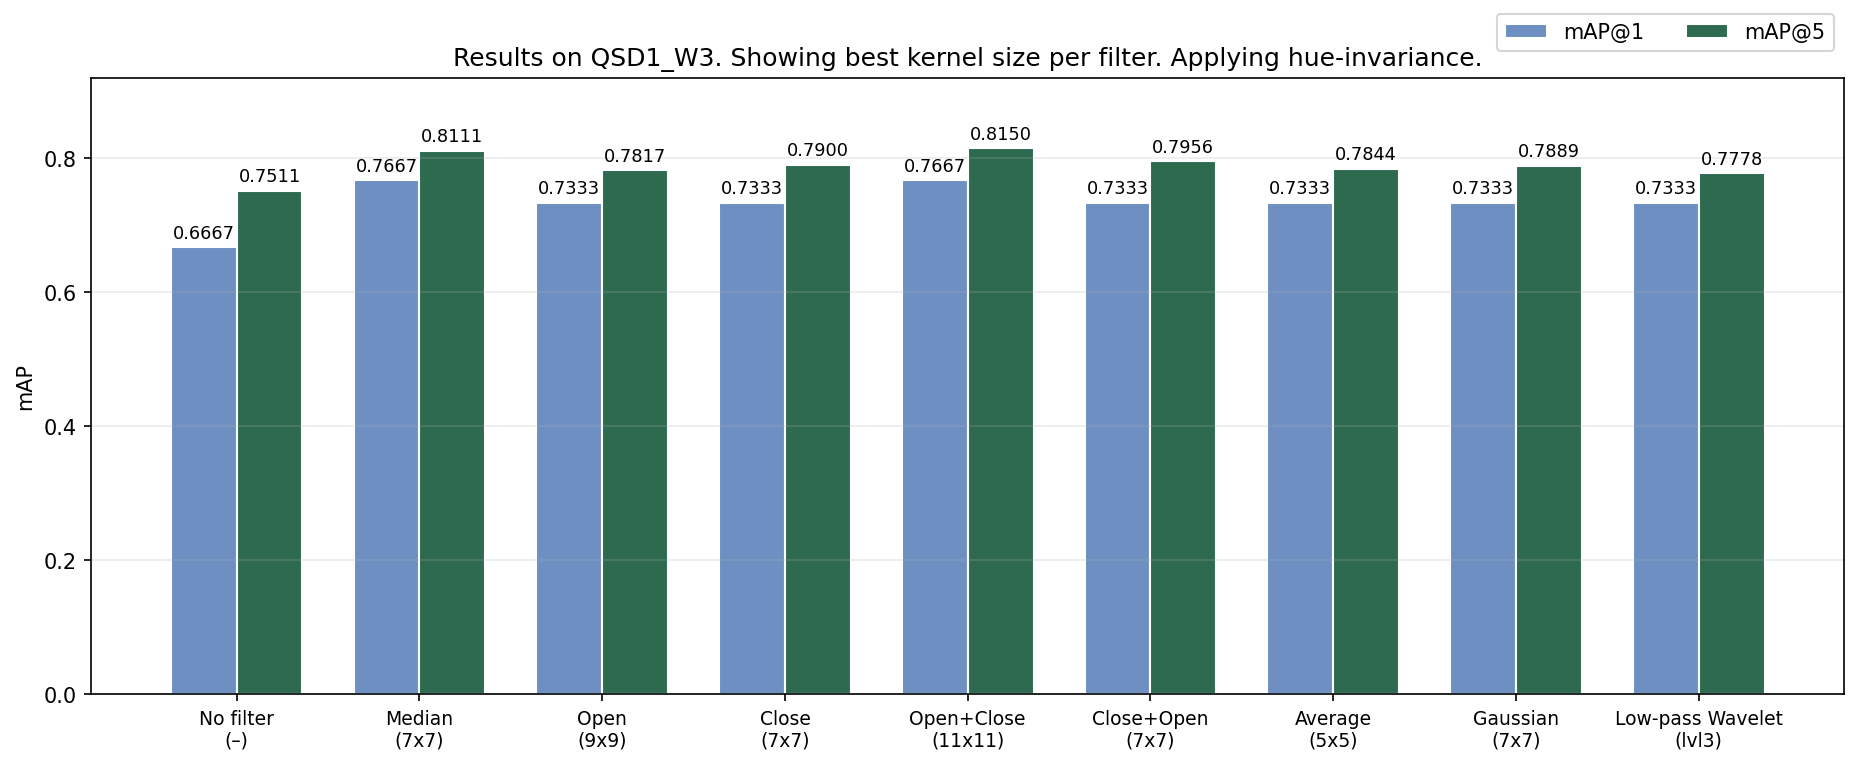
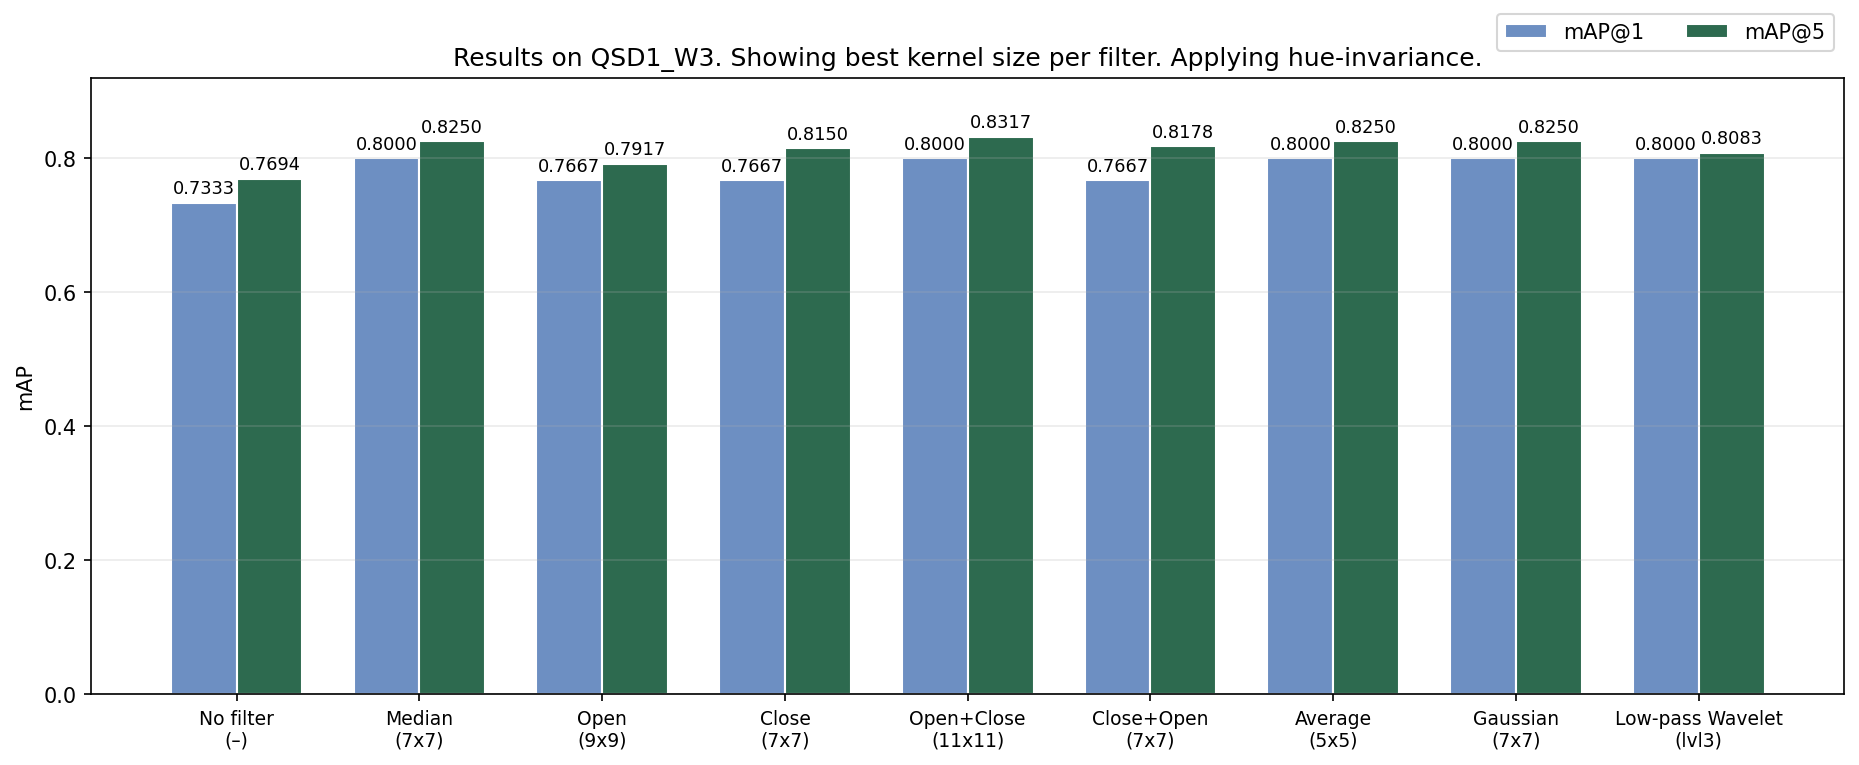
W3: keep only the 8 Task 1 filters in methods_w3
Remove bilateral, dilate and erode from the implementation, --pre-filter choices and sweep grid. MORPH_OPERATIONS is now open/close only. Tests updated with an explicit IMAGE_FILTERS allowlist assertion.

diff --git a/src/methods_w3.py b/src/methods_w3.py
@@ -16,11 +16,10 @@ Both use the W2 configuration: CIE-Lab, 32 bins per channel, 5x5 = 25
 spatial cells, L1-normalized histograms and the L1 distance.
 
 Besides the median filter, the module exposes linear Average and Gaussian
-filters, an edge-preserving bilateral filter, per-channel morphological
-dilation, erosion, opening and closing, chained opening+closing in both
-orders and a low-pass wavelet filter (keep the approximation coefficients,
-zero the details). Filters can be chained with "+" (for example
-"median+open"). These are query-side candidates for the same Task 1
+filters, per-channel morphological opening and closing, chained opening+closing
+in both orders and a low-pass wavelet filter (keep the approximation
+coefficients, zero the details). Filters can be chained with "+" (for example
+"open+close"). These are query-side candidates for the same Task 1
 comparison; pass ``--filter-scope both`` to apply the same filter to the
 references too. Every filter is registered as a ``"Lab blocks 1D <filter>"``
 method sharing one ``--kernel`` size parameter (the wavelet uses
@@ -38,7 +37,7 @@ Run as a script (argparse selects the action):
     python methods_w3.py --museum <dir> --queries <dir> --method all \
         --ground-truth <pkl>
     python methods_w3.py --museum <dir> --queries <dir> --method NAME \
-        --pre-filter {none,average,median,bilateral,gaussian,wavelet_lowpass,dilate,erode,open,close,open+close,close+open} \
+        --pre-filter {none,average,median,gaussian,wavelet_lowpass,open,close,open+close,close+open} \
         --kernel SIZE [--wavelet-level LEVEL] [--filter-scope {query,both}] \
         [--hue-invariant [--hue-reference <npz>]] [--ground-truth <pkl>]
     python methods_w3.py --museum <dir> --queries <dir> --sweep \
@@ -70,8 +69,6 @@ DEFAULT_BLOCKS = 25
 DEFAULT_AVERAGE_KSIZE = 3
 DEFAULT_MEDIAN_KSIZE = 3
 DEFAULT_MORPH_KSIZE = 3
-DEFAULT_BILATERAL_KSIZE = 7
-DEFAULT_BILATERAL_SIGMA = 50
 DEFAULT_GAUSSIAN_KSIZE = 3
 DEFAULT_GAUSSIAN_SIGMA = 0
 DEFAULT_WAVELET = "db2"
@@ -82,17 +79,16 @@ DEFAULT_HUE_TEMPERATURE = 1.0
 FILTER_SCOPES = ("query", "both")
 DEFAULT_FILTER_SCOPE = "query"
 
-MORPH_OPERATIONS = ("dilate", "erode", "open", "close")
+MORPH_OPERATIONS = ("open", "close")
 WAVELET_FILTER_NAMES = ("wavelet", "wavelet_lowpass")
 IMAGE_FILTERS = (
-    "none", "average", "median", "bilateral", "gaussian",
+    "none", "average", "median", "gaussian",
     "wavelet_lowpass", "open+close", "close+open",
 ) + MORPH_OPERATIONS
 AVERAGE_SWEEP_SIZES = (3, 5, 7, 9, 11, 13, 15)
 MEDIAN_SWEEP_SIZES = (3, 5, 7, 9, 11, 13, 15, 17, 19, 21)
 MORPH_SWEEP_SIZES = (3, 5)
 CHAIN_SWEEP_SIZES = (3, 5, 7, 9, 11)
-BILATERAL_SWEEP_SIZES = (5, 7, 9)
 GAUSSIAN_SWEEP_SIZES = (3, 5, 7, 9, 11, 13, 15)
 WAVELET_SWEEP_LEVELS = (1, 2, 3)
 
@@ -231,7 +227,7 @@ def _check_morph_ksize(ksize):
 def morphology_filter(img_rgb, operation, ksize=DEFAULT_MORPH_KSIZE):
     """Morphological filter applied per channel.
 
-    operation: "dilate", "erode", "open" or "close". The structuring element
+    operation: "open" or "close". The structuring element
     is an ellipse of size ksize x ksize. Works on grayscale HxW or RGB HxWx3
     uint8 images and keeps the shape and dtype.
     """
@@ -244,10 +240,6 @@ def morphology_filter(img_rgb, operation, ksize=DEFAULT_MORPH_KSIZE):
     kernel = cv2.getStructuringElement(cv2.MORPH_ELLIPSE, (ksize, ksize))
 
     def apply(channel):
-        if operation == "dilate":
-            return cv2.dilate(channel, kernel)
-        if operation == "erode":
-            return cv2.erode(channel, kernel)
         code = cv2.MORPH_OPEN if operation == "open" else cv2.MORPH_CLOSE
         return cv2.morphologyEx(channel, code, kernel)
 
@@ -262,16 +254,6 @@ def morphology_filter(img_rgb, operation, ksize=DEFAULT_MORPH_KSIZE):
     return np.stack(channels, axis=-1)
 
 
-def dilate_filter(img_rgb, ksize=DEFAULT_MORPH_KSIZE):
-    """Morphological dilation (expands bright regions)."""
-    return morphology_filter(img_rgb, "dilate", ksize)
-
-
-def erode_filter(img_rgb, ksize=DEFAULT_MORPH_KSIZE):
-    """Morphological erosion (expands dark regions)."""
-    return morphology_filter(img_rgb, "erode", ksize)
-
-
 def open_filter(img_rgb, ksize=DEFAULT_MORPH_KSIZE):
     """Morphological opening: erosion followed by dilation."""
     return morphology_filter(img_rgb, "open", ksize)
@@ -282,26 +264,8 @@ def close_filter(img_rgb, ksize=DEFAULT_MORPH_KSIZE):
     return morphology_filter(img_rgb, "close", ksize)
 
 
-dilation_filter = dilate_filter
-erosion_filter = erode_filter
 opening_filter = open_filter
 closing_filter = close_filter
-
-
-def bilateral_filter(img_rgb, ksize=DEFAULT_BILATERAL_KSIZE,
-                     sigma_color=DEFAULT_BILATERAL_SIGMA,
-                     sigma_space=DEFAULT_BILATERAL_SIGMA):
-    """Edge-preserving bilateral filter for a grayscale or RGB uint8 image."""
-    assert (isinstance(ksize, int) and not isinstance(ksize, bool)
-            and ksize >= 1 and ksize % 2 == 1), (
-        f"bilateral ksize must be an odd integer >= 1, got {ksize!r}")
-    image = np.asarray(img_rgb)
-    assert image.dtype == np.uint8, (
-        f"bilateral_filter expects a uint8 image, got {image.dtype}")
-    assert image.ndim in (2, 3), (
-        f"bilateral_filter expects HxW or HxWxC, got shape {image.shape}")
-    return cv2.bilateralFilter(
-        image, ksize, sigma_color, sigma_space)
 
 
 def gaussian_filter(img_rgb, ksize=DEFAULT_GAUSSIAN_KSIZE,
@@ -402,8 +366,6 @@ def build_image_filter(name, ksize=None, wavelet=DEFAULT_WAVELET,
         "identity": "none",
         "mean": "average",
         "box": "average",
-        "dilation": "dilate",
-        "erosion": "erode",
         "opening": "open",
         "closing": "close",
         "wavelet": "wavelet_lowpass",
@@ -430,9 +392,6 @@ def build_image_filter(name, ksize=None, wavelet=DEFAULT_WAVELET,
     if key == "median":
         ksize = DEFAULT_MEDIAN_KSIZE if ksize is None else ksize
         return lambda image: median_filter(image, ksize=ksize)
-    if key == "bilateral":
-        ksize = DEFAULT_BILATERAL_KSIZE if ksize is None else ksize
-        return lambda image: bilateral_filter(image, ksize=ksize)
     if key == "gaussian":
         ksize = DEFAULT_GAUSSIAN_KSIZE if ksize is None else ksize
         return lambda image: gaussian_filter(image, ksize=ksize)
@@ -813,7 +772,7 @@ def evaluate_all_folders_w3(museum_path, queries_path,
 def default_filter_specs(median_sizes=None, morph_sizes=None,
                          chain_sizes=None, wavelet_levels=None):
     """Filter grid for the sweep: baseline, average, median, Gaussian,
-    bilateral, morphology, chained open+close / close+open and low-pass
+    morphology (open/close), chained open+close / close+open and low-pass
     wavelet levels."""
     median_sizes = (MEDIAN_SWEEP_SIZES if median_sizes is None
                     else tuple(median_sizes))
@@ -827,7 +786,6 @@ def default_filter_specs(median_sizes=None, morph_sizes=None,
     specs += [("average", ksize) for ksize in AVERAGE_SWEEP_SIZES]
     specs += [("median", ksize) for ksize in median_sizes]
     specs += [("gaussian", ksize) for ksize in GAUSSIAN_SWEEP_SIZES]
-    specs += [("bilateral", ksize) for ksize in BILATERAL_SWEEP_SIZES]
     specs += [(operation, ksize) for operation in MORPH_OPERATIONS
               for ksize in morph_sizes]
     specs += [("open+close", ksize) for ksize in chain_sizes]

diff --git a/results/week3/run_filter_hue_bars.py b/results/week3/run_filter_hue_bars.py
@@ -1,0 +1,130 @@
+"""Best kernel per filter, WITH hue-invariance (query-only scope + hue).
+
+For every group the query-side filter is applied at its best kernel and the
+ranking uses the HSV hue-invariance mode of methods_w3 (per-candidate hue
+scale, blend of raw and hue-normalized LAB distances).
+
+Outputs (recomputed only with --recompute):
+    results/week3/filter_best_bars_hue.csv
+    results/week3/filter_best_bars.png
+"""
+
+from __future__ import annotations
+
+import argparse
+import csv
+import sys
+from pathlib import Path
+
+import matplotlib
+
+matplotlib.use("Agg")
+import matplotlib.pyplot as plt
+import numpy as np
+
+sys.path.insert(0, "src")
+
+from k_similarity import mean_average_precision_at_k  # noqa: E402
+from methods_w2 import _load_ground_truth, _ordered_image_paths  # noqa: E402
+from methods_w3 import evaluate_folders_w3  # noqa: E402
+
+ROOT = Path(__file__).resolve().parents[2]
+MUSEUM = ROOT / "data" / "BBDD"
+QUERIES = ROOT / "data" / "qsd1_w3"
+GROUND_TRUTH = QUERIES / "gt_corresps.pkl"
+HUE_REFERENCE = (ROOT / "results" / "week3" / "color_reference"
+                 / "museum_hue_references.npz")
+OUTPUT_DIR = ROOT / "results" / "week3"
+CSV = OUTPUT_DIR / "filter_best_bars_hue.csv"
+FIGURE = OUTPUT_DIR / "filter_best_bars.png"
+
+# (label, W3 method, kernel or None, parameter tag for the x axis)
+CONFIGS = [
+    ("No filter", "Lab blocks 1D", None, "\u2013"),
+    ("Median", "Lab blocks 1D median", 7, "7x7"),
+    ("Open", "Lab blocks 1D open", 9, "9x9"),
+    ("Close", "Lab blocks 1D close", 7, "7x7"),
+    ("Open+Close", "Lab blocks 1D open+close", 11, "11x11"),
+    ("Close+Open", "Lab blocks 1D close+open", 7, "7x7"),
+    ("Average", "Lab blocks 1D average", 5, "5x5"),
+    ("Gaussian", "Lab blocks 1D gaussian", 7, "7x7"),
+    ("Low-pass Wavelet", "Lab blocks 1D wavelet", None, "lvl3"),
+]
+
+
+def _evaluate(label, method, ksize):
+    ranked_ids = evaluate_folders_w3(
+        str(MUSEUM), str(QUERIES), method,
+        ground_truth_path=str(GROUND_TRUTH),
+        ksize=3 if ksize is None else ksize,
+        wavelet_level=3,
+        hue_invariant=True,
+        hue_reference=str(HUE_REFERENCE),
+    )
+    _, query_paths = _ordered_image_paths(str(QUERIES))
+    query_ids = [int(Path(p).stem) for p in query_paths]
+    ground_truth = _load_ground_truth(str(GROUND_TRUTH), query_ids)
+    map1 = mean_average_precision_at_k(ranked_ids, ground_truth, 1)
+    map5 = mean_average_precision_at_k(ranked_ids, ground_truth, 5)
+    print(f"{label:<16} mAP@1={map1:.4f} mAP@5={map5:.4f}", flush=True)
+    return map1, map5
+
+
+def _plot(rows):
+    labels = [f"{row['filter']}\n({row['parameter']})" for row in rows]
+    map1 = np.array([row["mAP@1"] for row in rows])
+    map5 = np.array([row["mAP@5"] for row in rows])
+    x = np.arange(len(rows))
+    width = 0.36
+    fig, ax = plt.subplots(figsize=(12.5, 5.2))
+    bars1 = ax.bar(x - width / 2, map1, width, label="mAP@1",
+                   color="#6d8fc2", edgecolor="white")
+    bars2 = ax.bar(x + width / 2, map5, width, label="mAP@5",
+                   color="#2d6a4f", edgecolor="white")
+    for bars, values in ((bars1, map1), (bars2, map5)):
+        for bar, value in zip(bars, values):
+            ax.text(bar.get_x() + bar.get_width() / 2, value + 0.008,
+                    f"{value:.4f}", ha="center", va="bottom", fontsize=8.5)
+    ax.set_xticks(x)
+    ax.set_xticklabels(labels, fontsize=9)
+    ax.set_ylim(0, 0.92)
+    ax.set_ylabel("mAP")
+    ax.set_title("Results on QSD1_W3. Showing best kernel size per filter. "
+                 "Applying hue-invariance.")
+    ax.legend(loc="upper right", bbox_to_anchor=(1.0, 1.12), ncol=2,
+              frameon=True)
+    ax.grid(axis="y", alpha=0.25)
+    fig.tight_layout()
+    fig.savefig(FIGURE, dpi=150, bbox_inches="tight")
+    print(f"Saved {FIGURE}")
+
+
+def main(argv=None):
+    parser = argparse.ArgumentParser(description=__doc__)
+    parser.add_argument("--recompute", action="store_true",
+                        help="Re-run the hue-invariant evaluations "
+                             "(otherwise only replot from the CSV)")
+    options = parser.parse_args(argv)
+
+    if options.recompute or not CSV.exists():
+        rows = []
+        for label, method, ksize, tag in CONFIGS:
+            map1, map5 = _evaluate(label, method, ksize)
+            rows.append({"filter": label, "parameter": tag,
+                         "mAP@1": map1, "mAP@5": map5})
+        with CSV.open("w", newline="", encoding="utf-8") as handle:
+            writer = csv.DictWriter(
+                handle, fieldnames=["filter", "parameter", "mAP@1", "mAP@5"])
+            writer.writeheader()
+            writer.writerows(rows)
+        print(f"Saved {CSV}")
+    else:
+        with CSV.open(encoding="utf-8") as handle:
+            rows = [{**row, "mAP@1": float(row["mAP@1"]),
+                     "mAP@5": float(row["mAP@5"])}
+                    for row in csv.DictReader(handle)]
+    _plot(rows)
+
+
+if __name__ == "__main__":
+    main()

diff --git a/tests/test_methods_w3.py b/tests/test_methods_w3.py
@@ -45,7 +45,6 @@ from methods_w3 import (  # noqa: E402
     WAVELET_METHOD,
     average_filter,
     baseline_descriptor,
-    bilateral_filter,
     build_descriptor,
     build_image_filter,
     build_method,
@@ -55,8 +54,6 @@ from methods_w3 import (  # noqa: E402
     compute_lab_blocks_1d_histogram,
     compute_descriptors_w3,
     default_filter_specs,
-    dilate_filter,
-    erode_filter,
     evaluate_folders_w3,
     gaussian_filter,
     load_museum_descriptors_w3,
@@ -134,26 +131,28 @@ class TestW3Filters(unittest.TestCase):
         with self.assertRaises(AssertionError):
             median_filter(_red_rgb(), ksize=2)
 
-    def test_morphology_shapes_and_direction(self):
+    def test_morphology_shapes(self):
         gray = np.zeros((7, 7), dtype=np.uint8)
         gray[3, 3] = 255
-        self.assertGreaterEqual(
-            int(dilate_filter(gray, 3).sum()), int(gray.sum()))
-        self.assertLessEqual(
-            int(erode_filter(gray, 3).sum()), int(gray.sum()))
         self.assertEqual(open_filter(gray, 3).shape, gray.shape)
         self.assertEqual(close_filter(gray, 3).shape, gray.shape)
-        self.assertEqual(morphology_filter(gray, "dilate").dtype, np.uint8)
+        self.assertEqual(open_filter(gray, 3).dtype, np.uint8)
+        self.assertEqual(close_filter(gray, 3).dtype, np.uint8)
+        self.assertEqual(morphology_filter(gray, "open").dtype, np.uint8)
         for operation in MORPH_OPERATIONS:
             self.assertEqual(
                 morphology_filter(_red_rgb(), operation).shape,
                 _red_rgb().shape)
         with self.assertRaises(ValueError):
             morphology_filter(gray, "not-an-operation")
+        with self.assertRaises(ValueError):
+            morphology_filter(gray, "dilate")
+        with self.assertRaises(ValueError):
+            morphology_filter(gray, "erode")
 
     def test_morphology_rejects_bad_ksize(self):
         with self.assertRaises(AssertionError):
-            morphology_filter(np.zeros((5, 5), np.uint8), "dilate", ksize=2)
+            morphology_filter(np.zeros((5, 5), np.uint8), "open", ksize=2)
 
     def test_average_shapes(self):
         rgb = _red_rgb()
@@ -163,11 +162,6 @@ class TestW3Filters(unittest.TestCase):
         self.assertEqual(average_filter(gray, 5).shape, gray.shape)
         with self.assertRaises(AssertionError):
             average_filter(rgb, ksize=4)
-
-    def test_bilateral_shapes(self):
-        rgb = _red_rgb()
-        self.assertEqual(bilateral_filter(rgb, 5).shape, rgb.shape)
-        self.assertEqual(bilateral_filter(rgb, 5).dtype, np.uint8)
 
     def test_gaussian_shapes(self):
         rgb = _red_rgb()
@@ -259,9 +253,14 @@ class TestW3Descriptors(unittest.TestCase):
     def test_sweep_specs(self):
         specs = default_filter_specs()
         self.assertEqual(specs[0], ("none", 1))
+        self.assertEqual(
+            set(IMAGE_FILTERS),
+            {"none", "average", "median", "gaussian", "wavelet_lowpass",
+             "open", "close", "open+close", "close+open"})
+        for name, _ in specs:
+            self.assertIn(name, IMAGE_FILTERS)
         self.assertIn(("average", AVERAGE_SWEEP_SIZES[0]), specs)
         self.assertIn(("median", 7), specs)
-        self.assertIn(("bilateral", 7), specs)
         self.assertIn(("gaussian", GAUSSIAN_SWEEP_SIZES[0]), specs)
         for operation in MORPH_OPERATIONS:
             self.assertIn((operation, 3), specs)

diff --git a/README.md b/README.md
@@ -271,7 +271,7 @@ clean reference copies and is not used as query input.
 
 | File | Content |
 |---|---|
-| `methods_w3.py` | Task 1: median filter for the queries |
+| `methods_w3.py` | Task 1: query filters (Median, Open, Close, Open+Close, Close+Open, Average, Gaussian, Low-pass Wavelet) plus the HSV hue-invariance mode |
 | `paintings_w3.py` | Task 2: texture descriptors (LBP, Multiscale LBP, DCT, Wavelet, and the improved DCT log and Texture fusion); Tasks 3, 4 and 5: multi-painting segmentation, retrieval per painting, blind submission |
 
 `paintings_w3.py` reuses the W2 wall model, ranking, mask evaluation and
@@ -281,9 +281,11 @@ of Task 1 stays in `methods_w3.py` and is selected with `--query-filter`.
 
 ### Task 1: Noise Filtering
 
-`methods_w3.py` implements a non-linear median filter, applied per channel
-(`median_filter`, default 3x3). It is applied **only to the queries**; museum
-images are never filtered, so the museum descriptors stay the same.
+`methods_w3.py` registers one `Lab blocks 1D <filter>` method per filter
+(Median, Open, Close, Open+Close, Close+Open, Average, Gaussian, Low-pass
+Wavelet) sharing a `--kernel` size, plus an HSV hue-invariance mode
+(`--hue-invariant`). Filters are applied **only to the queries** by default;
+museum images are never filtered, so the museum descriptors stay the same.
 
 ```powershell
 python src/methods_w3.py --museum data/BBDD --queries data/qsd1_w3 --method all --ground-truth data/qsd1_w3/gt_corresps.pkl
